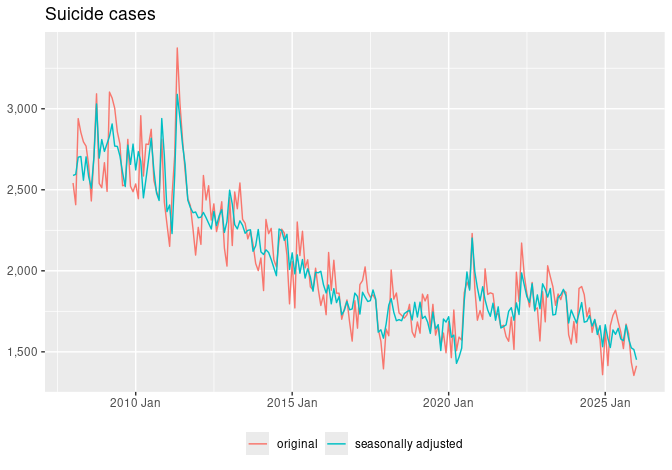
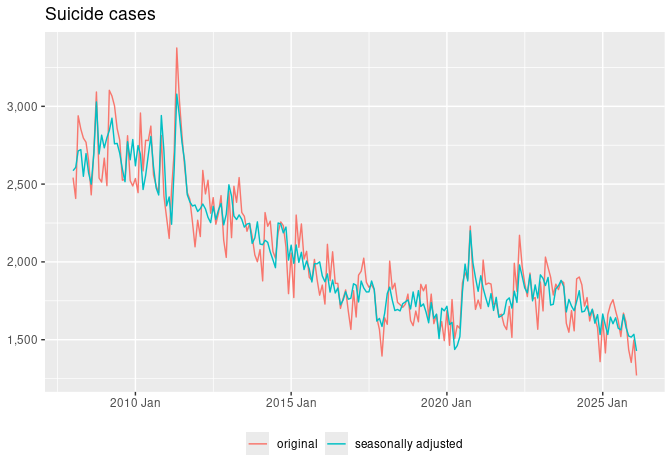
update February 2026 cases

diff --git a/README.md b/README.md
@@ -10,7 +10,7 @@ Mitsuo Shiota
 - [Suicide cases are bouncing back, but not as fast as the program
   suggests](#suicide-cases-are-bouncing-back-but-not-as-fast-as-the-program-suggests)
 
-Updated: 2026-03-03
+Updated: 2026-03-31
 
 ## Motivation
 
